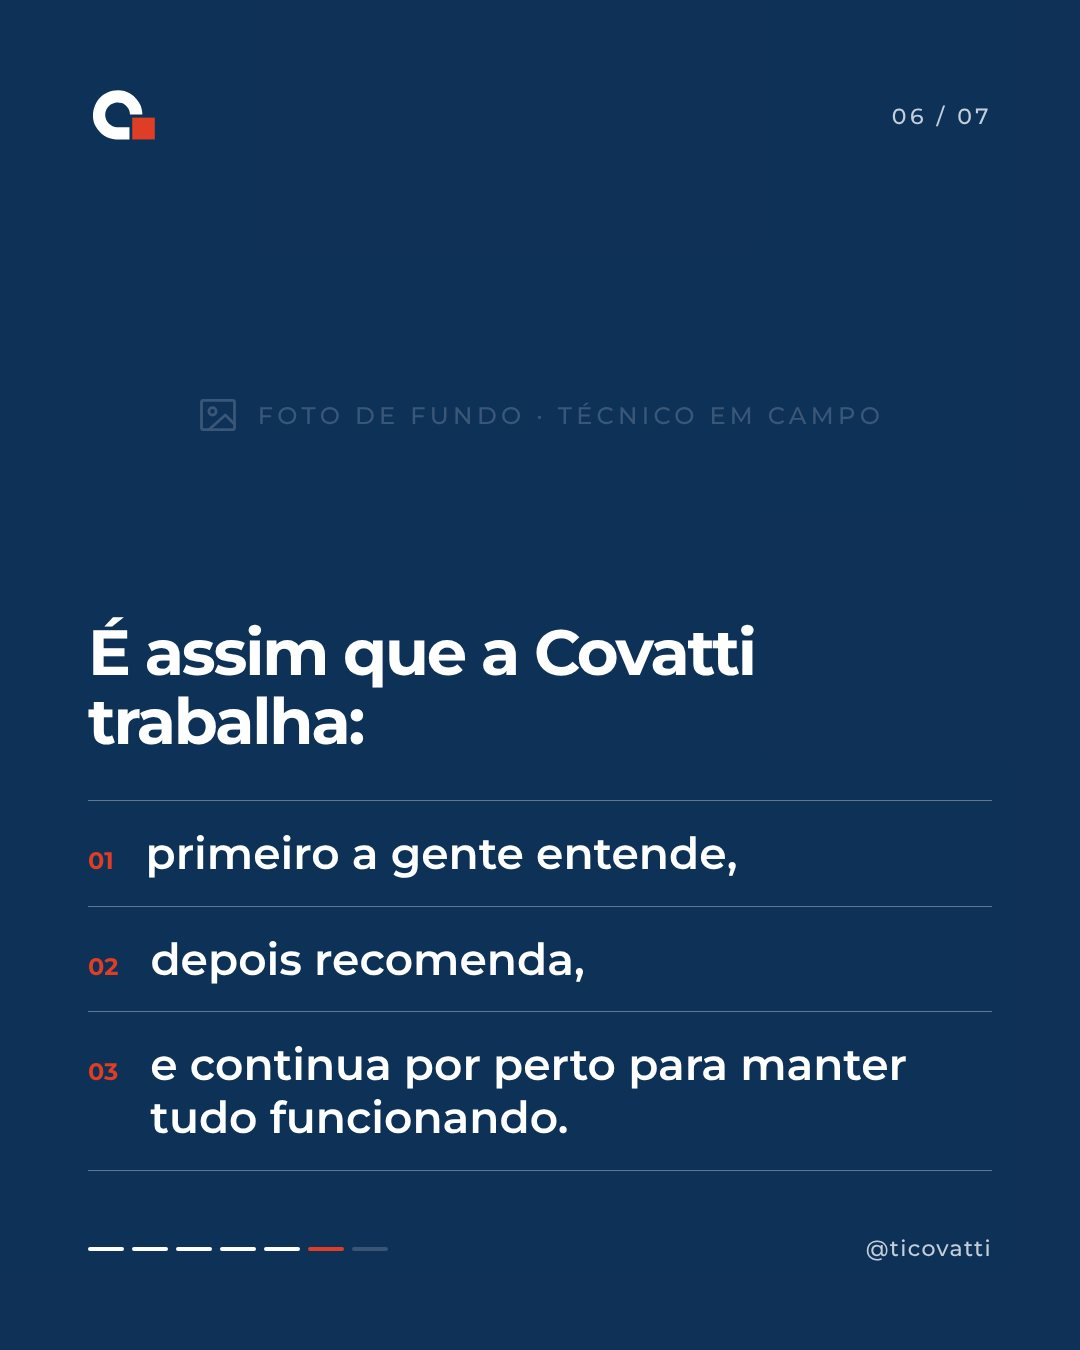
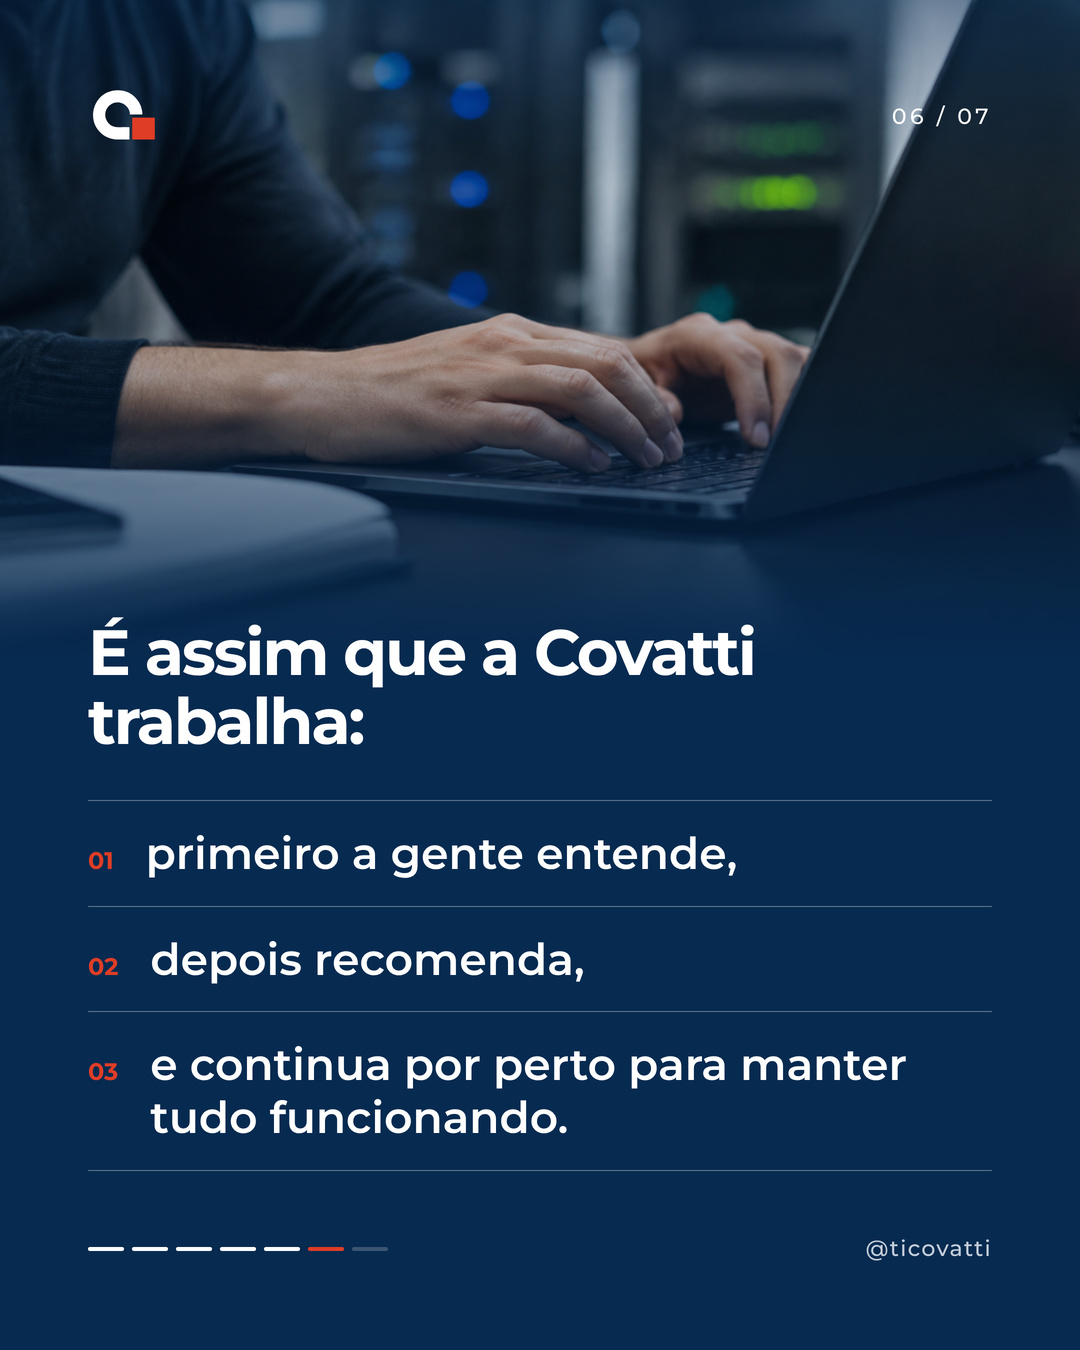
Add files via upload

diff --git a/novembro-2026/index.html b/novembro-2026/index.html
@@ -262,8 +262,7 @@ const CONTEUDO = [
       "p03-5.jpg",
       "p03-6.jpg",
       "p03-7.jpg"
-    ],
-    "pendente": "fotos nos slides 3 e 6"
+    ]
   },
   {
     "taskId": "1dfh60pfynm",
